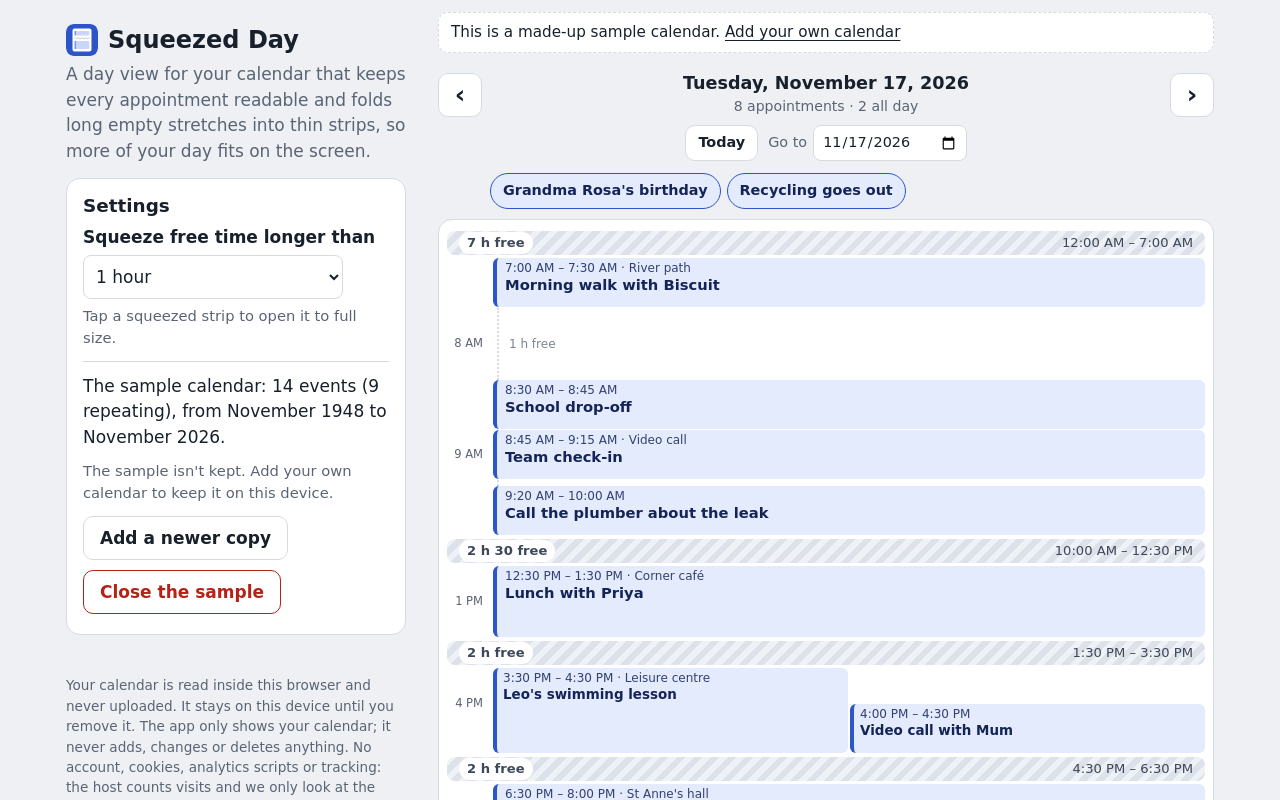
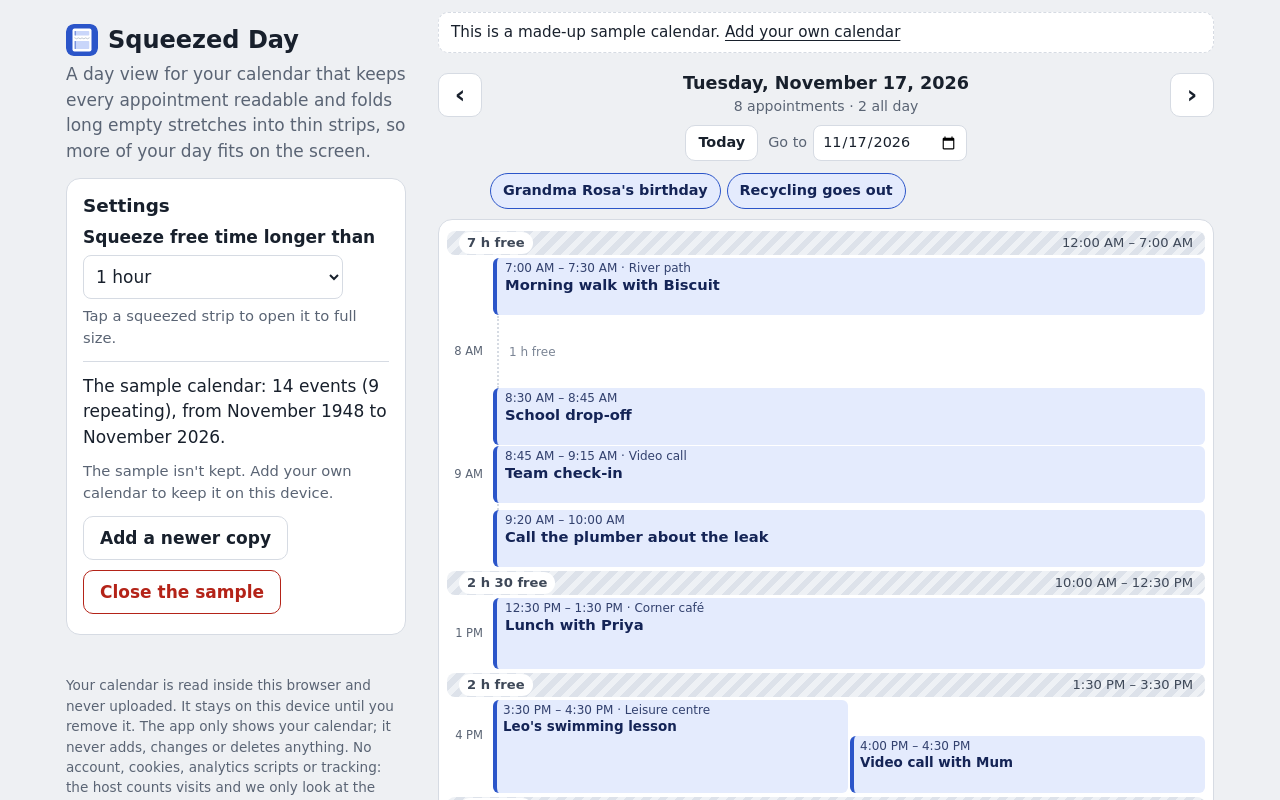
Keep the calendar when a newer copy fails; two-line titles; visible export caveat

Changed region(s): [[0.3438, 0.4688, 0.9375, 1.0], [0.375, 0.375, 0.9375, 0.4375], [0.3438, 0.4062, 0.375, 0.4375]]

diff --git a/src/worker.ts b/src/worker.ts
@@ -16,9 +16,10 @@ self.onmessage = (e: MessageEvent<WorkerRequest>) => {
   const msg = e.data;
   try {
     if (msg.type === "load") {
-      calendar = null;
-      calendar = new Calendar(msg.texts);
-      reply({ type: "loaded", id: msg.id, summary: calendar.summary });
+      // Only replace the current calendar once the new one has been read.
+      const next = new Calendar(msg.texts);
+      calendar = next;
+      reply({ type: "loaded", id: msg.id, summary: next.summary });
     } else if (msg.type === "day") {
       if (!calendar) throw new CalendarError("No calendar is loaded.");
       reply({ type: "day", id: msg.id, day: calendar.day(msg.day) });

diff --git a/index.html b/index.html
@@ -21,6 +21,7 @@
       <section class="card start" id="start" aria-labelledby="start-title">
         <h2 id="start-title" tabindex="-1">Add your calendar</h2>
         <p>Choose a calendar file (it ends in <b>.ics</b>, or <b>.zip</b> if it came from Google Calendar). It's read on this device and never uploaded.</p>
+        <p class="hint">Many calendars only let you save this file from their website on a computer, not from the phone app. The file is a copy: later changes need a fresh one.</p>
         <div class="row-buttons">
           <label class="btn btn-go file-btn">
             Choose calendar file

diff --git a/src/view.ts b/src/view.ts
@@ -67,7 +67,7 @@ export interface DrawOptions {
 /** Pixels per minute for things drawn to scale (72 px an hour). */
 export const SCALE = 1.2;
 /** Room an appointment needs for its time and one or two lines of title. */
-export const MIN_EVENT_HEIGHT = 50;
+export const MIN_EVENT_HEIGHT = 58;
 // Sizes (px) matching style.css: button padding, time line, title line.
 const EV_PAD = 8;
 const TIME_LINE = 15;
